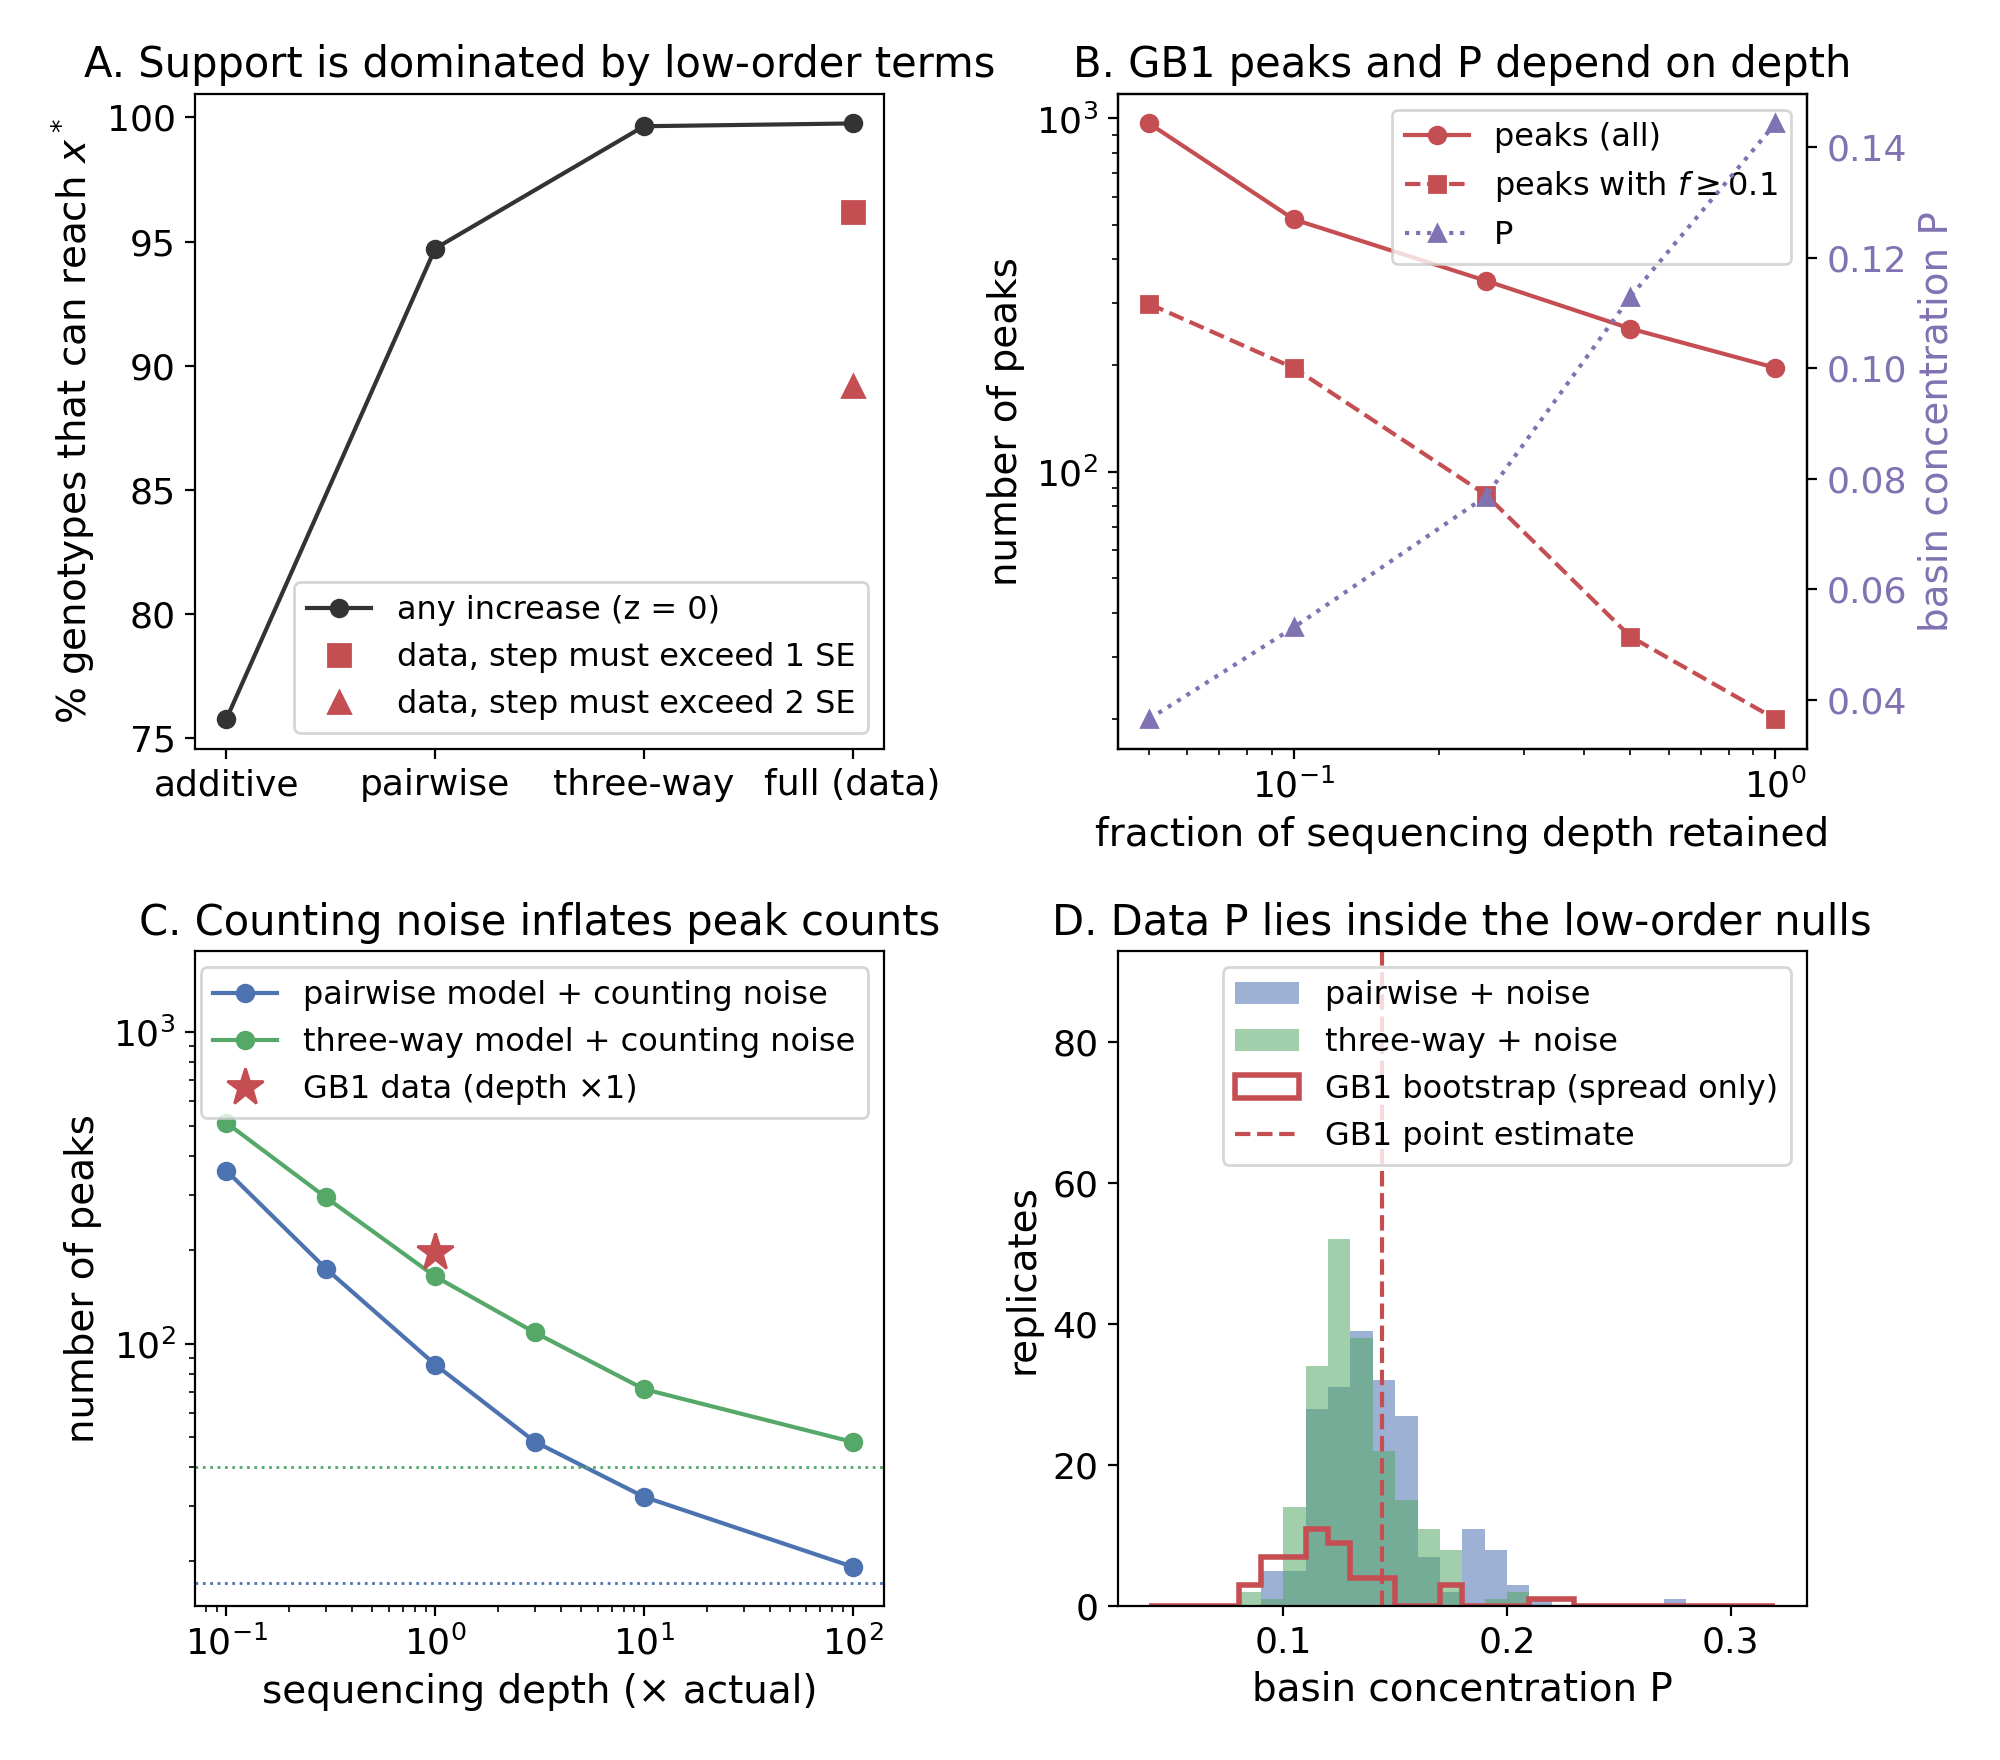
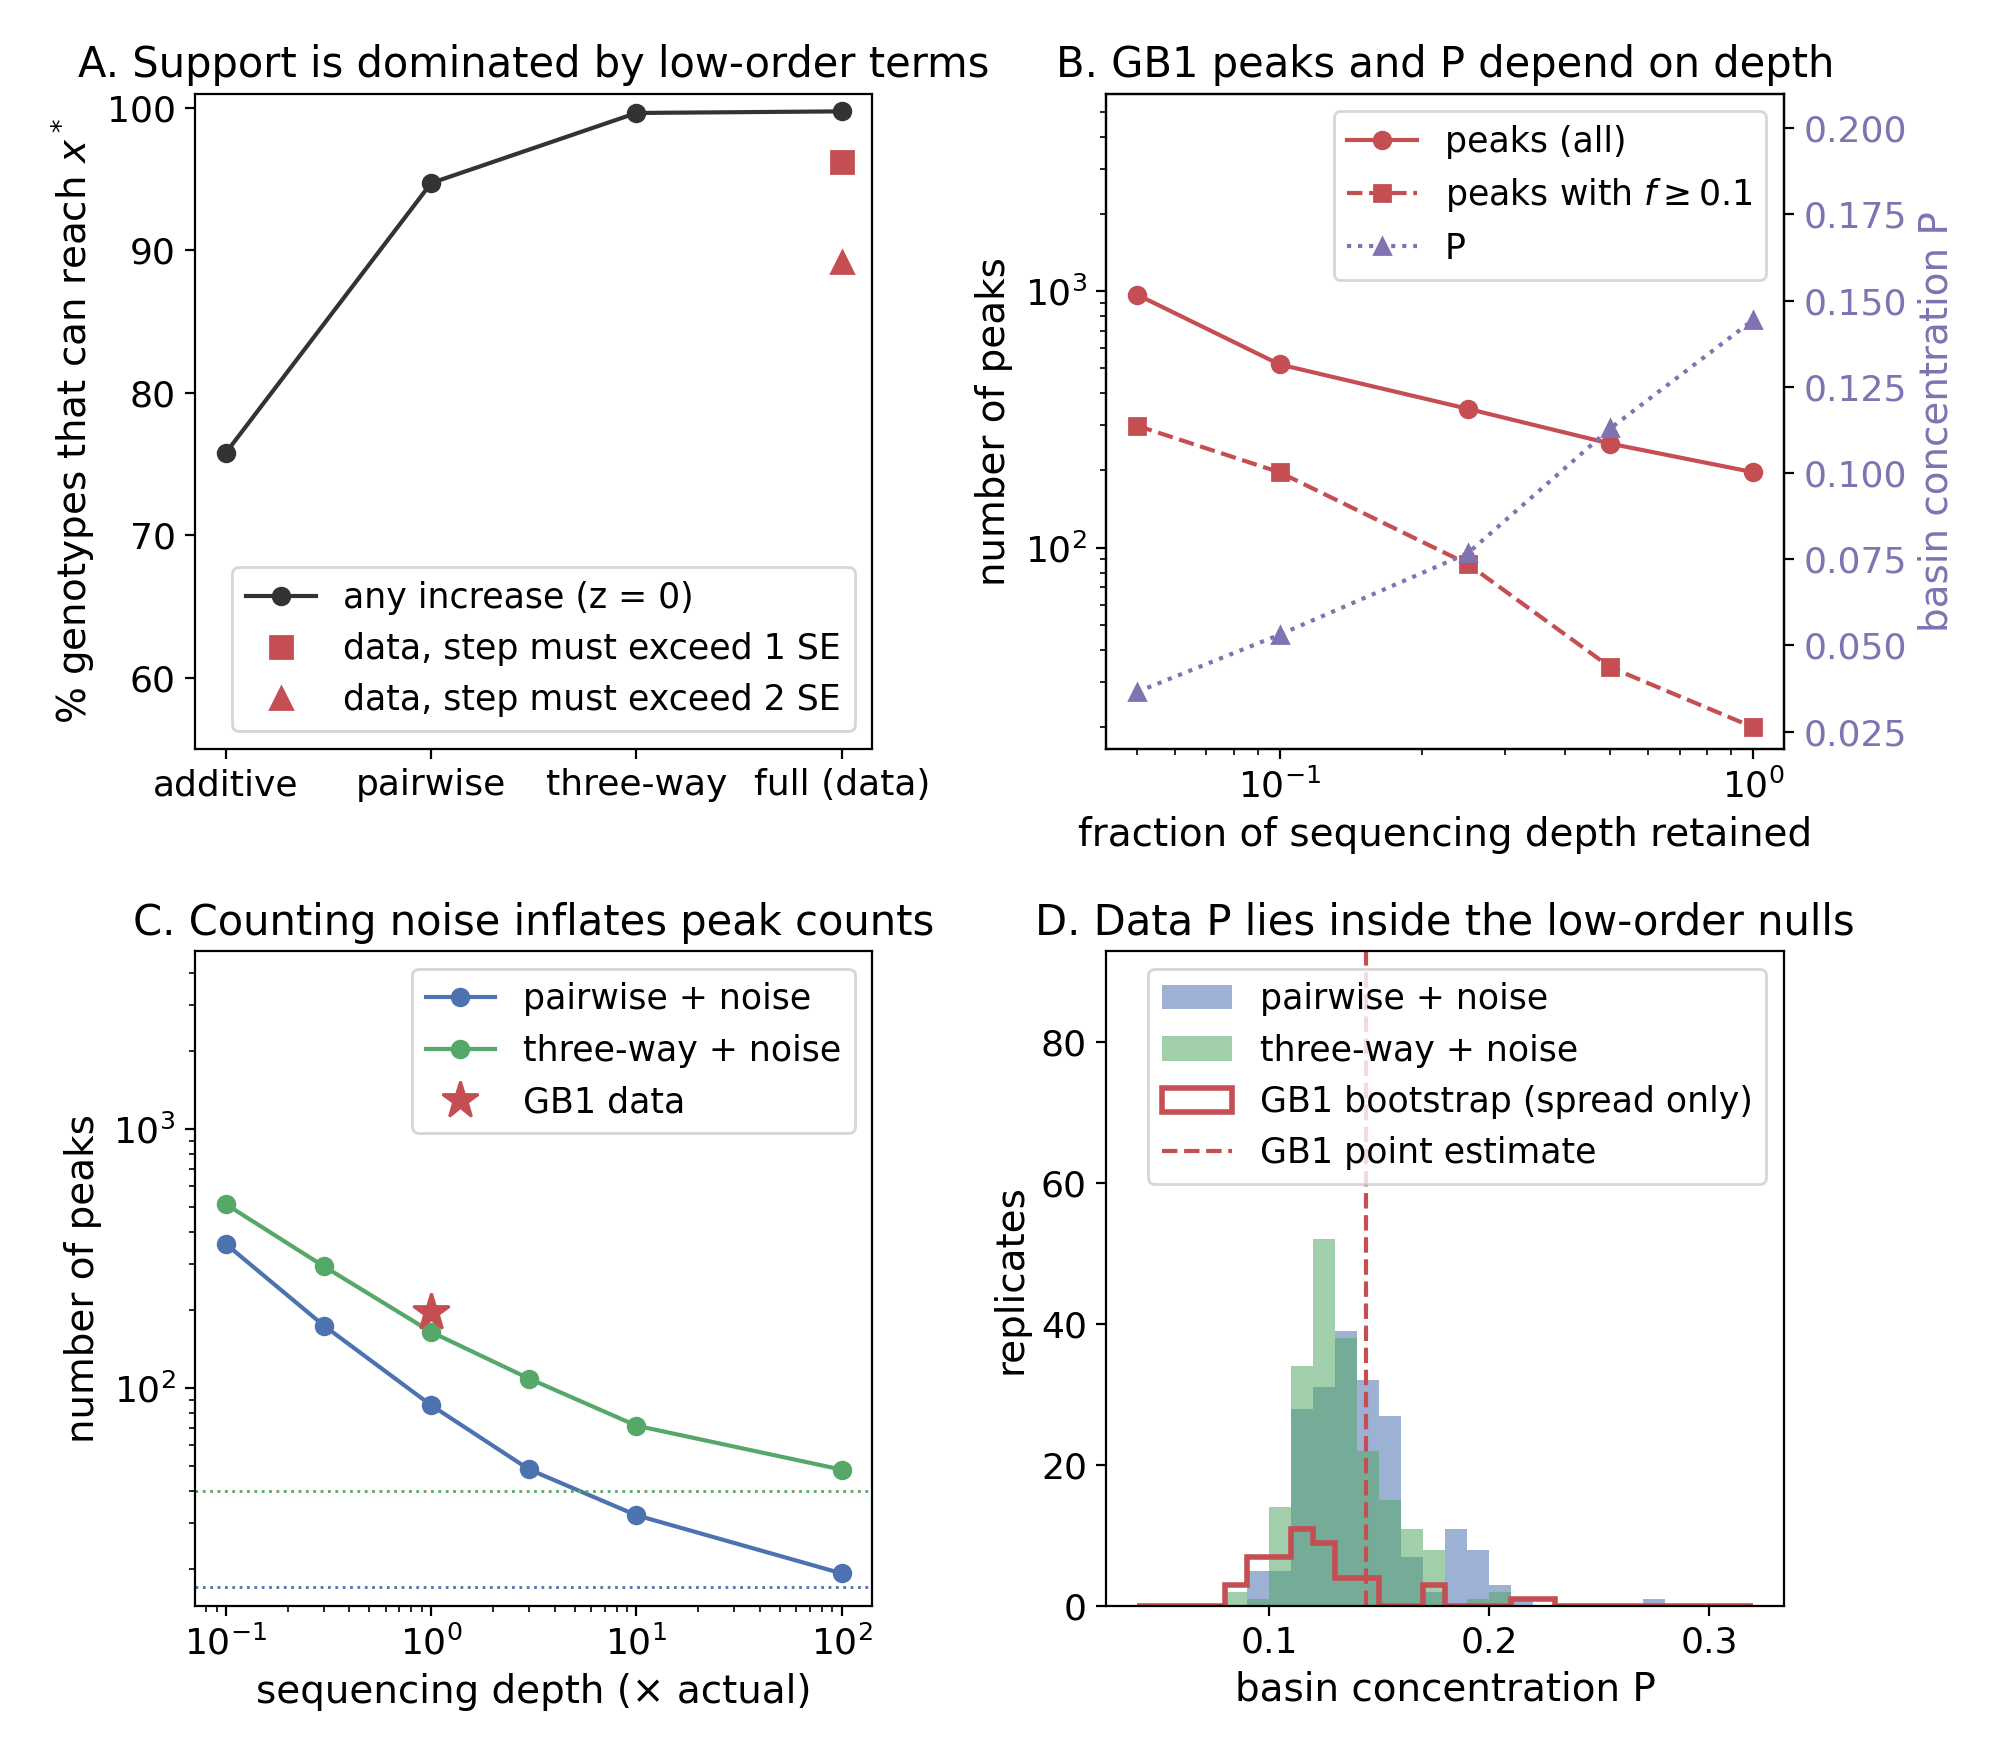
Figures: 8 pt legends at print size, axis headroom so legends clear the data

diff --git a/fig_noise.py b/fig_noise.py
@@ -2,7 +2,7 @@ import json, numpy as np
 import matplotlib; matplotlib.use('Agg')
 import matplotlib.pyplot as plt
 plt.rcParams.update({'font.size':15,'axes.titlesize':15,'axes.labelsize':14,
-                     'xtick.labelsize':13,'ytick.labelsize':13,'legend.fontsize':11.5})
+                     'xtick.labelsize':13,'ytick.labelsize':13,'legend.fontsize':12.5})
 R = json.load(open('robust_results.json')); D = json.load(open('robust_depth_results.json'))
 C = {'2':'#4C72B0', '3':'#55A868', 'data':'#C44E52'}
 fig, ax = plt.subplots(2, 2, figsize=(10, 8.8))
@@ -13,7 +13,7 @@ ax[0,0].plot(range(4), [100*R['models'][k]['0']['support'] for k in ks], 'o-', c
 for z, mk in [('1','s'), ('2','^')]:
     ax[0,0].plot([3], [100*R['models']['4'][z]['support']], mk, ms=8, color=C['data'], label=f'data, step must exceed {z} SE')
 ax[0,0].set_xticks(range(4)); ax[0,0].set_xticklabels(lab)
-ax[0,0].set_ylabel('% genotypes that can reach $x^*$'); ax[0,0].legend(loc='lower right')
+ax[0,0].set_ylim(55, 101); ax[0,0].set_ylabel('% genotypes that can reach $x^*$'); ax[0,0].legend(loc='lower right')
 ax[0,0].set_title('A. Support is dominated by low-order terms')
 
 # B: thinning the real counts
@@ -22,6 +22,7 @@ ax[0,1].loglog(q, [r['peaks'] for r in th], 'o-', color=C['data'], label='peaks 
 ax[0,1].loglog(q, [r['func_peaks'] for r in th], 's--', color=C['data'], label=r'peaks with $f\geq0.1$')
 ax[0,1].set_xlabel('fraction of sequencing depth retained'); ax[0,1].set_ylabel('number of peaks')
 b2 = ax[0,1].twinx(); b2.semilogx(q, [r['P'] for r in th], '^:', color='#8172B2', label='P')
+lo, hi = ax[0,1].get_ylim(); ax[0,1].set_ylim(lo, hi*5); b2.set_ylim(0.02, 0.21)
 b2.set_ylabel('basin concentration P', color='#8172B2'); b2.tick_params(axis='y', labelcolor='#8172B2')
 h1, l1 = ax[0,1].get_legend_handles_labels(); h2, l2 = b2.get_legend_handles_labels()
 ax[0,1].legend(h1+h2, l1+l2, loc='upper right'); ax[0,1].set_title('B. GB1 peaks and P depend on depth')
@@ -29,11 +30,11 @@ ax[0,1].legend(h1+h2, l1+l2, loc='upper right'); ax[0,1].set_title('B. GB1 peaks
 # C: low-order models simulated at increasing depth
 for k, name in [('2','pairwise'), ('3','three-way')]:
     rows = [r for r in D['sim'][k] if r['m'] != 'inf']; inf = [r for r in D['sim'][k] if r['m'] == 'inf'][0]
-    ax[1,0].loglog([r['m'] for r in rows], [r['peaks'] for r in rows], 'o-', color=C[k], label=f'{name} model + counting noise')
+    ax[1,0].loglog([r['m'] for r in rows], [r['peaks'] for r in rows], 'o-', color=C[k], label=f'{name} + noise')
     ax[1,0].axhline(inf['peaks'], ls=':', color=C[k], lw=1)
-ax[1,0].plot([1], [R['models']['4']['0']['peaks']], '*', ms=14, color=C['data'], label='GB1 data (depth ×1)')
+ax[1,0].plot([1], [R['models']['4']['0']['peaks']], '*', ms=14, color=C['data'], label='GB1 data')
 ax[1,0].set_xlabel('sequencing depth (× actual)'); ax[1,0].set_ylabel('number of peaks')
-lo, hi = ax[1,0].get_ylim(); ax[1,0].set_ylim(lo, hi*3)
+lo, hi = ax[1,0].get_ylim(); ax[1,0].set_ylim(lo, hi*8)
 ax[1,0].legend(loc='upper right'); ax[1,0].set_title('C. Counting noise inflates peak counts')
 
 # D: null distributions of P

diff --git a/fig_folA.py b/fig_folA.py
@@ -2,7 +2,7 @@ import json, numpy as np
 import matplotlib; matplotlib.use('Agg')
 import matplotlib.pyplot as plt
 plt.rcParams.update({'font.size':15,'axes.titlesize':15,'axes.labelsize':14,
-                     'xtick.labelsize':13,'ytick.labelsize':13,'legend.fontsize':11.5})
+                     'xtick.labelsize':13,'ytick.labelsize':13,'legend.fontsize':12.5})
 A = json.load(open('robust_folA_results.json')); G = json.load(open('robust_results.json'))
 GD = json.load(open('robust_depth_results.json')); GR = json.load(open('robust_folA_grid_results.json'))
 C = {'1':'#DD8452', '2':'#4C72B0', 'data':'#C44E52', 'gb1':'#555555'}
@@ -28,6 +28,7 @@ for panel, key, ylab, title in [(ax[0,1], 'func_peaks', 'functional peaks', 'B. 
     panel.axhline(A['data']['0'][key], color=C['data'], ls='--', label='folA data')
     panel.set_xscale('log', base=2); panel.set_xticks([0.5, 1, 2]); panel.set_xticklabels(['0.5×','1×','2×'])
     panel.set_xlabel('noise scale (× measured replicate SE)'); panel.set_ylabel(ylab); panel.set_yscale('log')
+    lo, hi = panel.get_ylim(); panel.set_ylim(lo, hi*(4 if key == 'func_peaks' else 1.6))
     panel.legend(); panel.set_title(title)
 
 # D: support vs significance threshold, both landscapes
